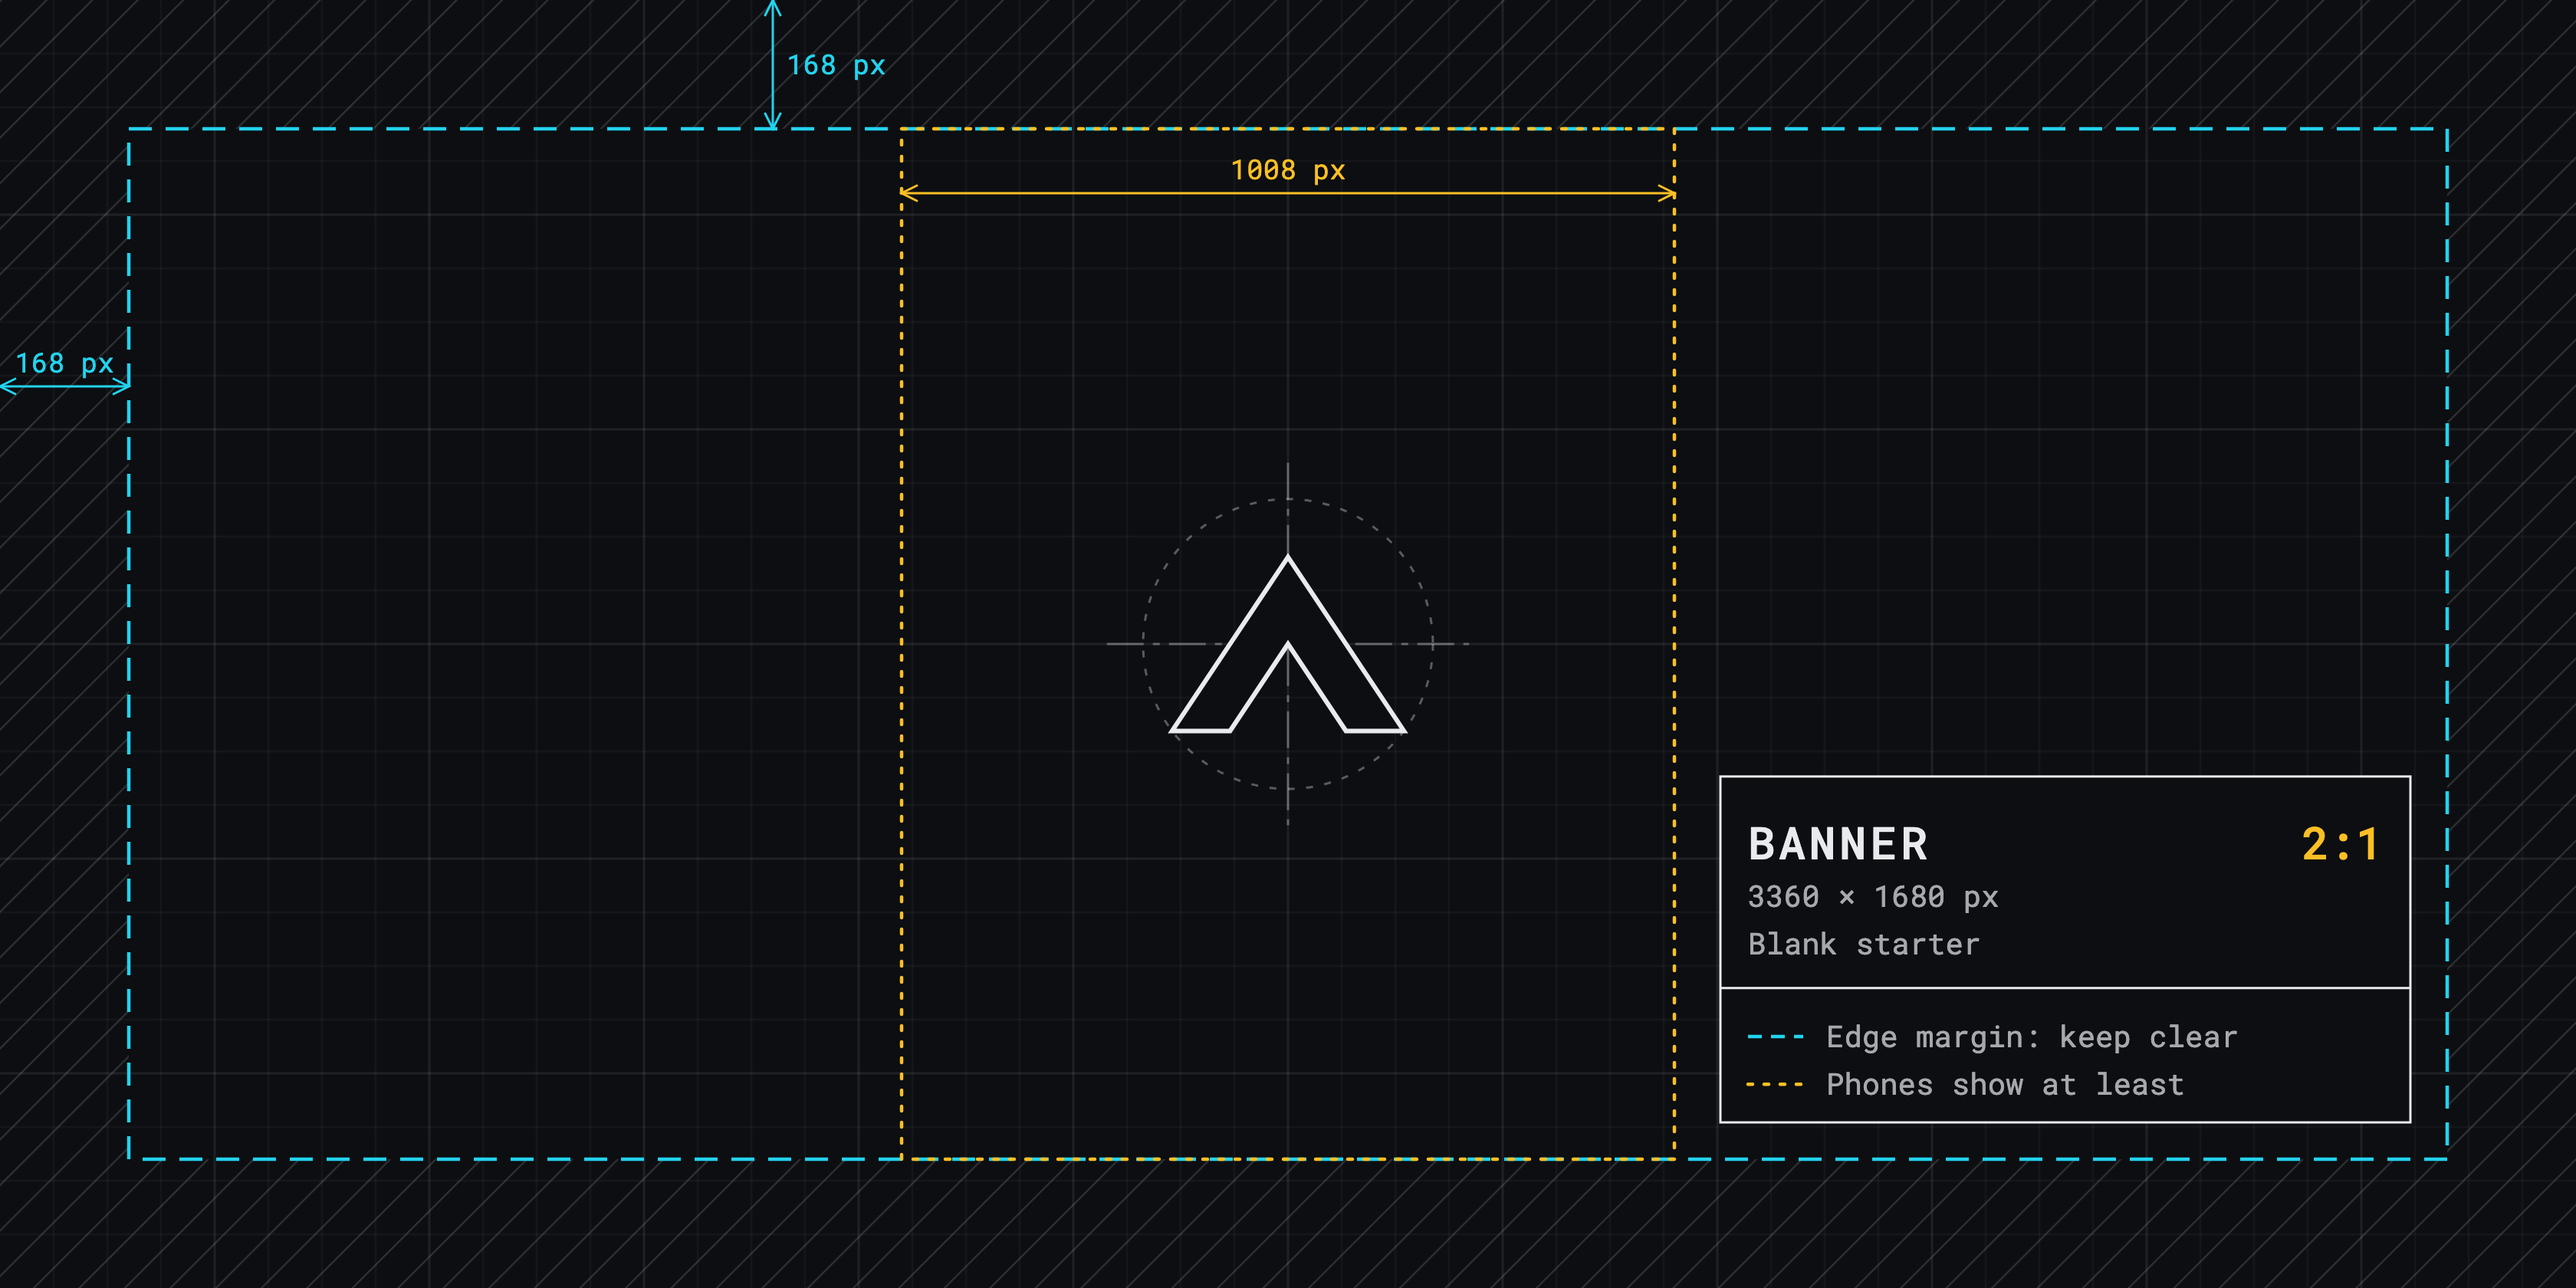
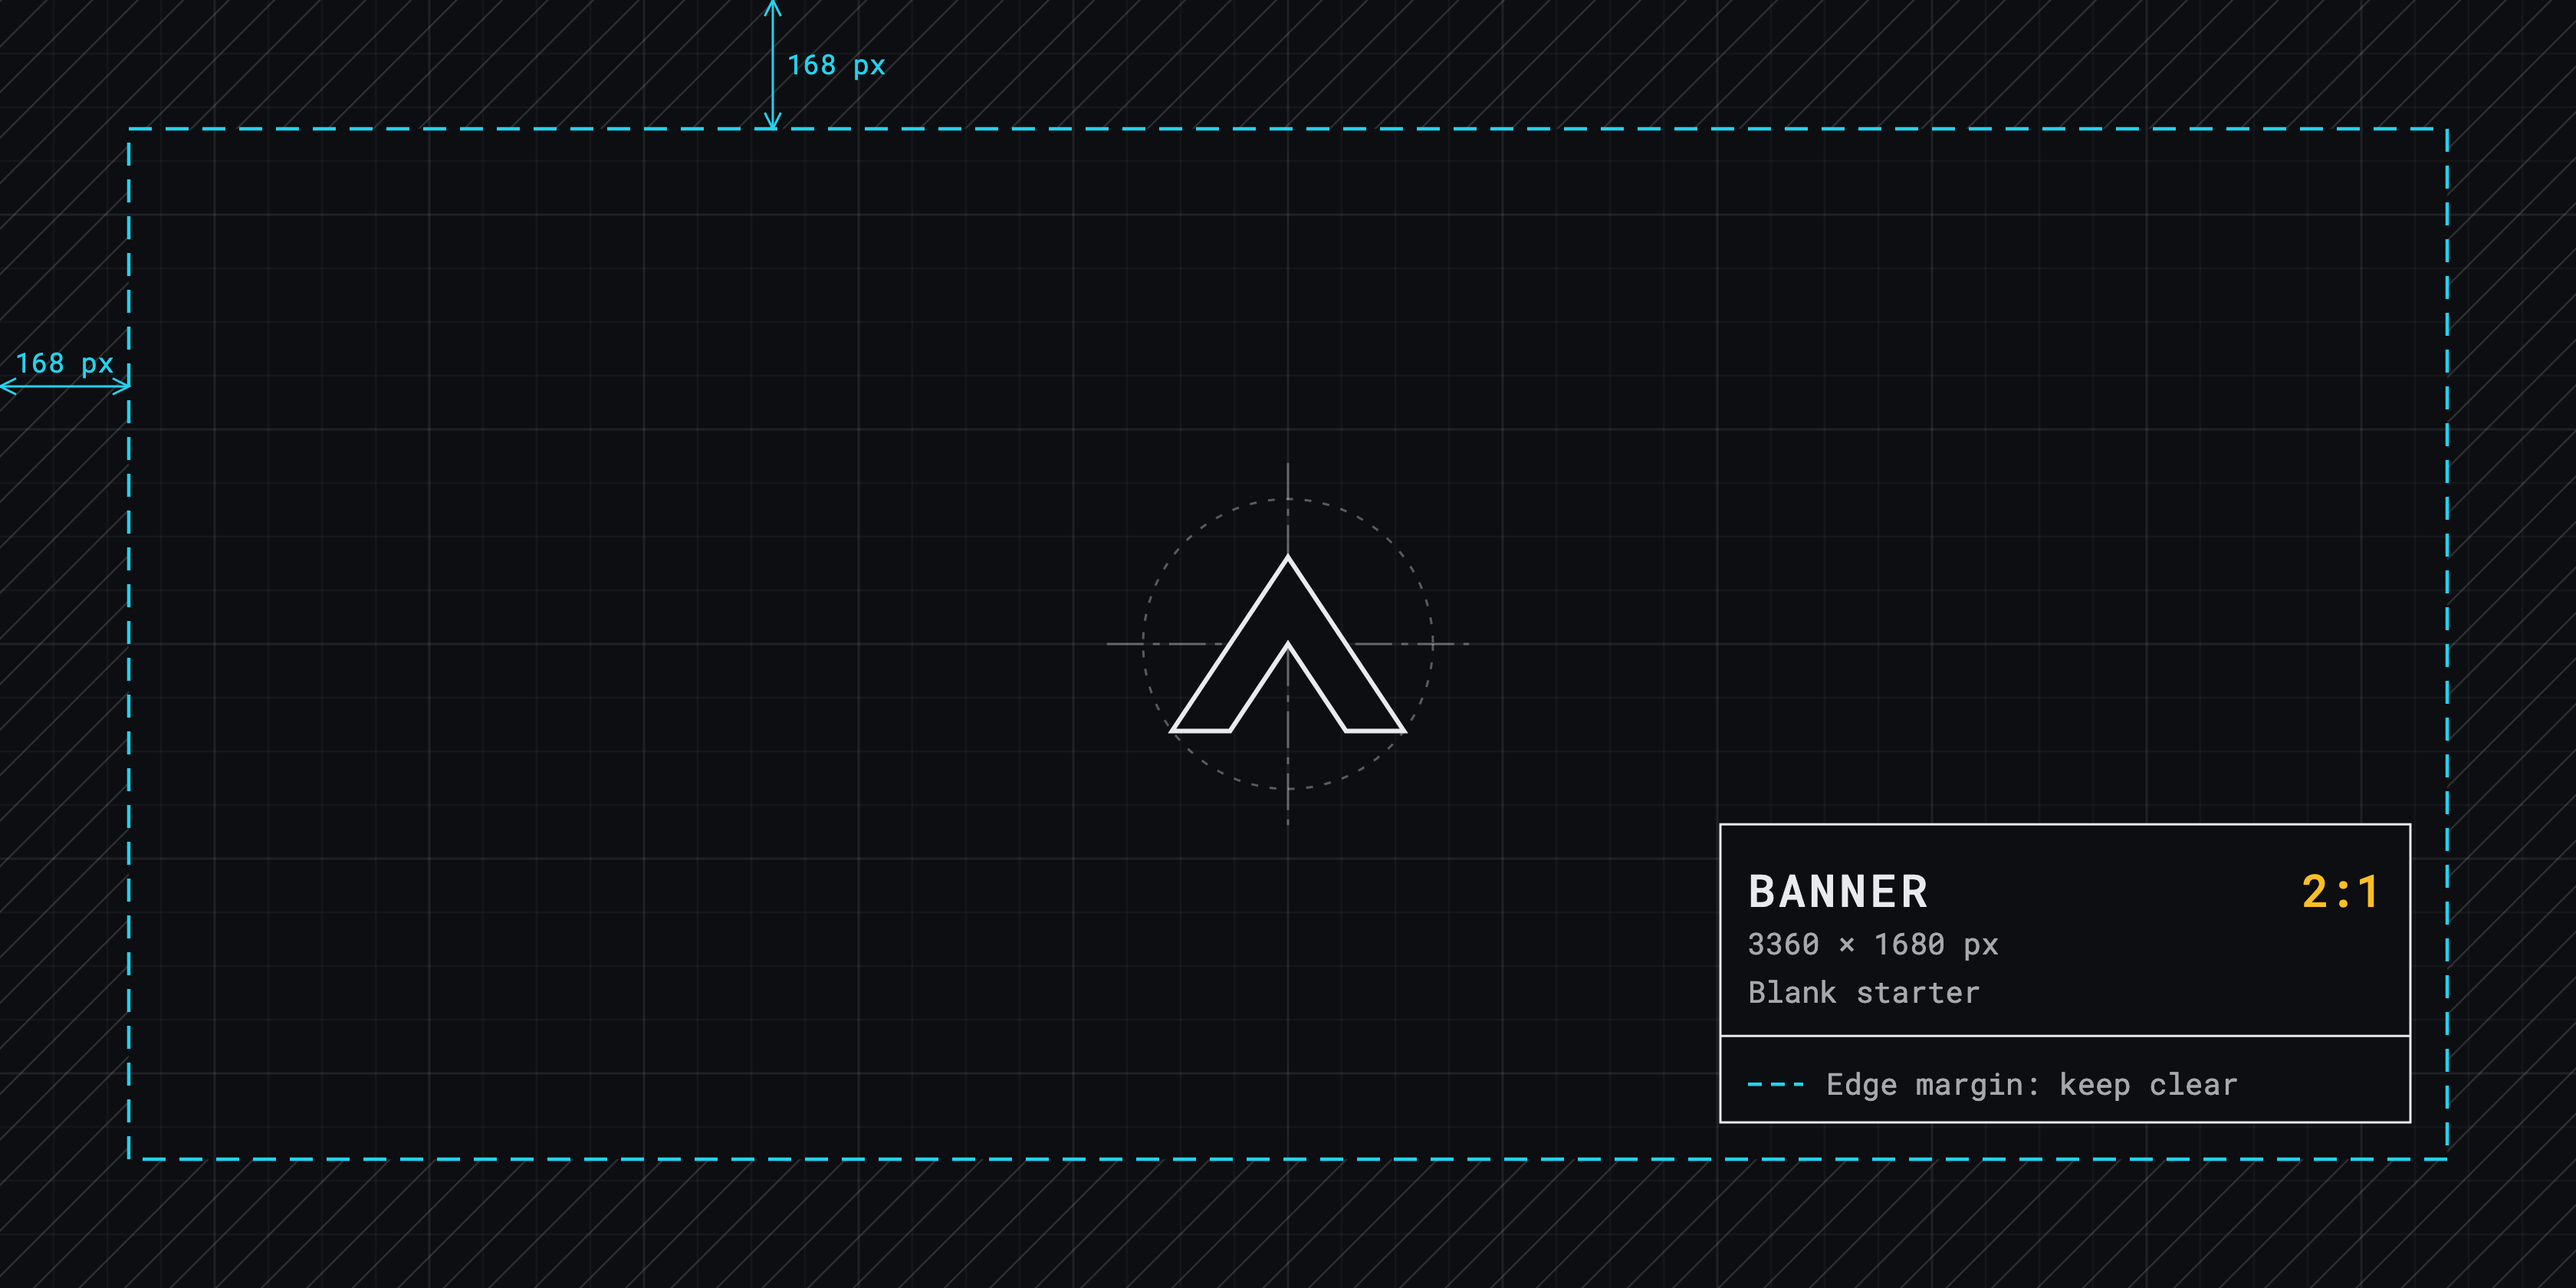
chore: revise margin guidance

diff --git a/AGENTS.md b/AGENTS.md
@@ -54,7 +54,7 @@ Add `--json` to an `arc` command (every one but `login`, `logout`, `open`, and `
 - Write the title, tagline, and bio as plain text.
 - Use only the description's allowed elements: no code, tables, raw HTML, or `#` and `##` headings.
 - Match art ratios exactly. A banner is 2:1, so 1030×512 is rejected.
-- Keep what matters in art inside its safe zones: 10% of the shorter side in from every edge, and on a wide cover, banner, or splash, the centered 3:4 area. The placeholders mark both; see https://developer.arcadible.com/publish/store-page.md, "Safe zones".
+- Keep what matters in art inside its edge margin: 10% of the shorter side in from every edge. The placeholders mark it; see https://developer.arcadible.com/publish/store-page.md, "Edge margin".
 
 ## Deploying
 
